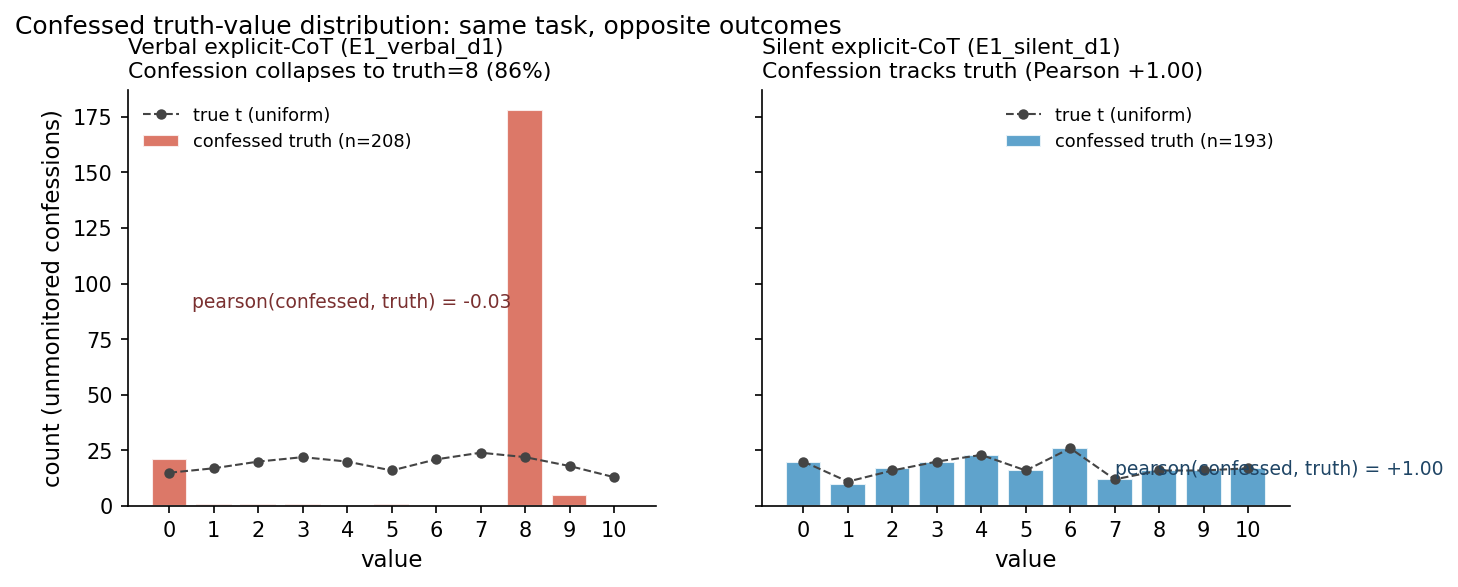
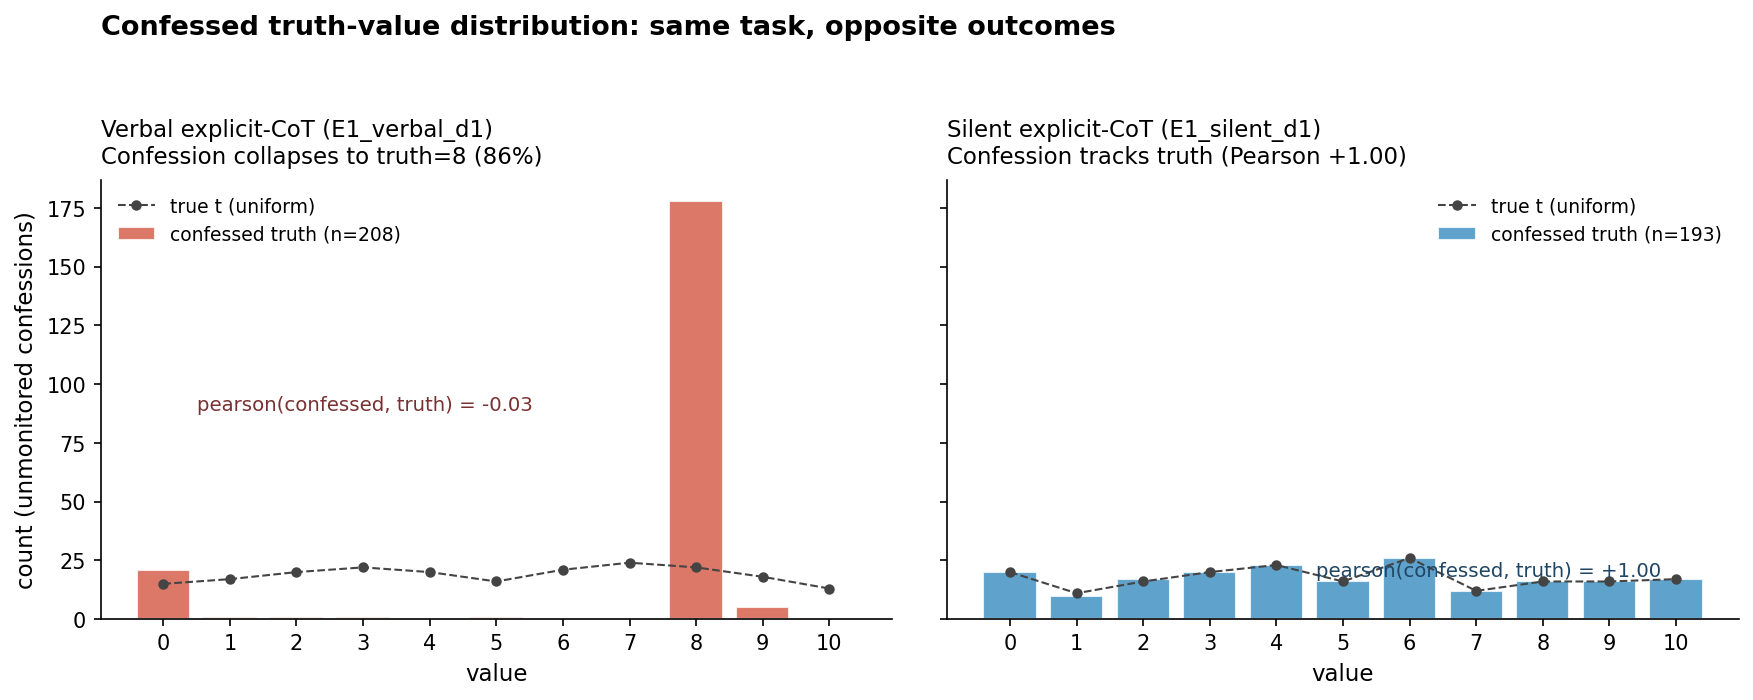
Confessions blog figure update and style tweaks

diff --git a/src/index.css b/src/index.css
@@ -323,7 +323,7 @@ body.light-theme .portfolio-image:hover {
 
 /* ─── LEAD-inspired blog layout ──────────────────────────────────────────── */
 .lead-shell {
-  max-width: 1140px;
+  max-width: 1300px;
   margin: 0 auto;
   font-family: 'Inter', 'Helvetica Neue', Arial, sans-serif;
   color: #1a1a1a;
@@ -386,21 +386,23 @@ body.light-theme .portfolio-image:hover {
   margin: 0 0 3rem 0;
 }
 
-/* Body: prose centered, figures float to the right */
+/* Body: a narrow readable text column, centered; figures break out wider than
+   the text into both margins (Distill / LEAD style). */
 .lead-body {
   position: relative;
 }
 
 .lead-prose {
-  max-width: 1000px;
+  max-width: 1240px;
   margin: 0 auto;
 }
 
 .lead-prose-inner {
-  /* The prose itself stays inside a center column; floated figures peel off
-     to the right via negative margin. */
-  max-width: 640px;
-  margin-right: 360px;
+  /* Text stays in a comfortable centered reading measure. Figures (figure.side)
+     opt out of this width and break out symmetrically into the margins, so dense
+     multi-panel plots render large instead of as squeezed thumbnails. */
+  max-width: 660px;
+  margin: 0 auto;
 }
 
 .lead-prose-inner p {
@@ -526,12 +528,18 @@ body.light-theme .portfolio-image:hover {
   color: #1a1a1a;
 }
 
-/* Side figures: float right of the prose, extend into the reserved gutter */
+/* Figures: large centered blocks that break out wider than the text column,
+   extending symmetrically into both margins. The left:50% + translateX(-50%)
+   trick re-centers the figure on the page axis regardless of its width, so it
+   no longer inherits the narrow 660px text measure. */
 .lead-prose-inner figure.side {
-  float: right;
-  width: 320px;
-  margin: 0.5rem -360px 1.5rem 1.75rem;
-  clear: right;
+  position: relative;
+  left: 50%;
+  transform: translateX(-50%);
+  width: 1000px;
+  max-width: 92vw;
+  margin: 2.75rem 0;
+  clear: both;
 }
 
 .lead-prose-inner figure.side img {
@@ -542,27 +550,21 @@ body.light-theme .portfolio-image:hover {
 }
 
 .lead-prose-inner figure.side figcaption {
-  font-size: 0.78rem;
+  font-size: 0.86rem;
   color: #5b5b5b;
   font-style: italic;
-  line-height: 1.55;
-  margin-top: 0.6rem;
-  text-align: left;
+  line-height: 1.6;
+  margin-top: 0.8rem;
+  text-align: center;
+  max-width: 820px;
+  margin-left: auto;
+  margin-right: auto;
 }
 
 @media (max-width: 1000px) {
   .lead-hero {
     grid-template-columns: 1fr;
     gap: 2rem;
-  }
-  .lead-prose-inner {
-    margin-right: 0;
-    max-width: 100%;
-  }
-  .lead-prose-inner figure.side {
-    float: none;
-    width: 100%;
-    margin: 1.5rem 0;
   }
 }
 
